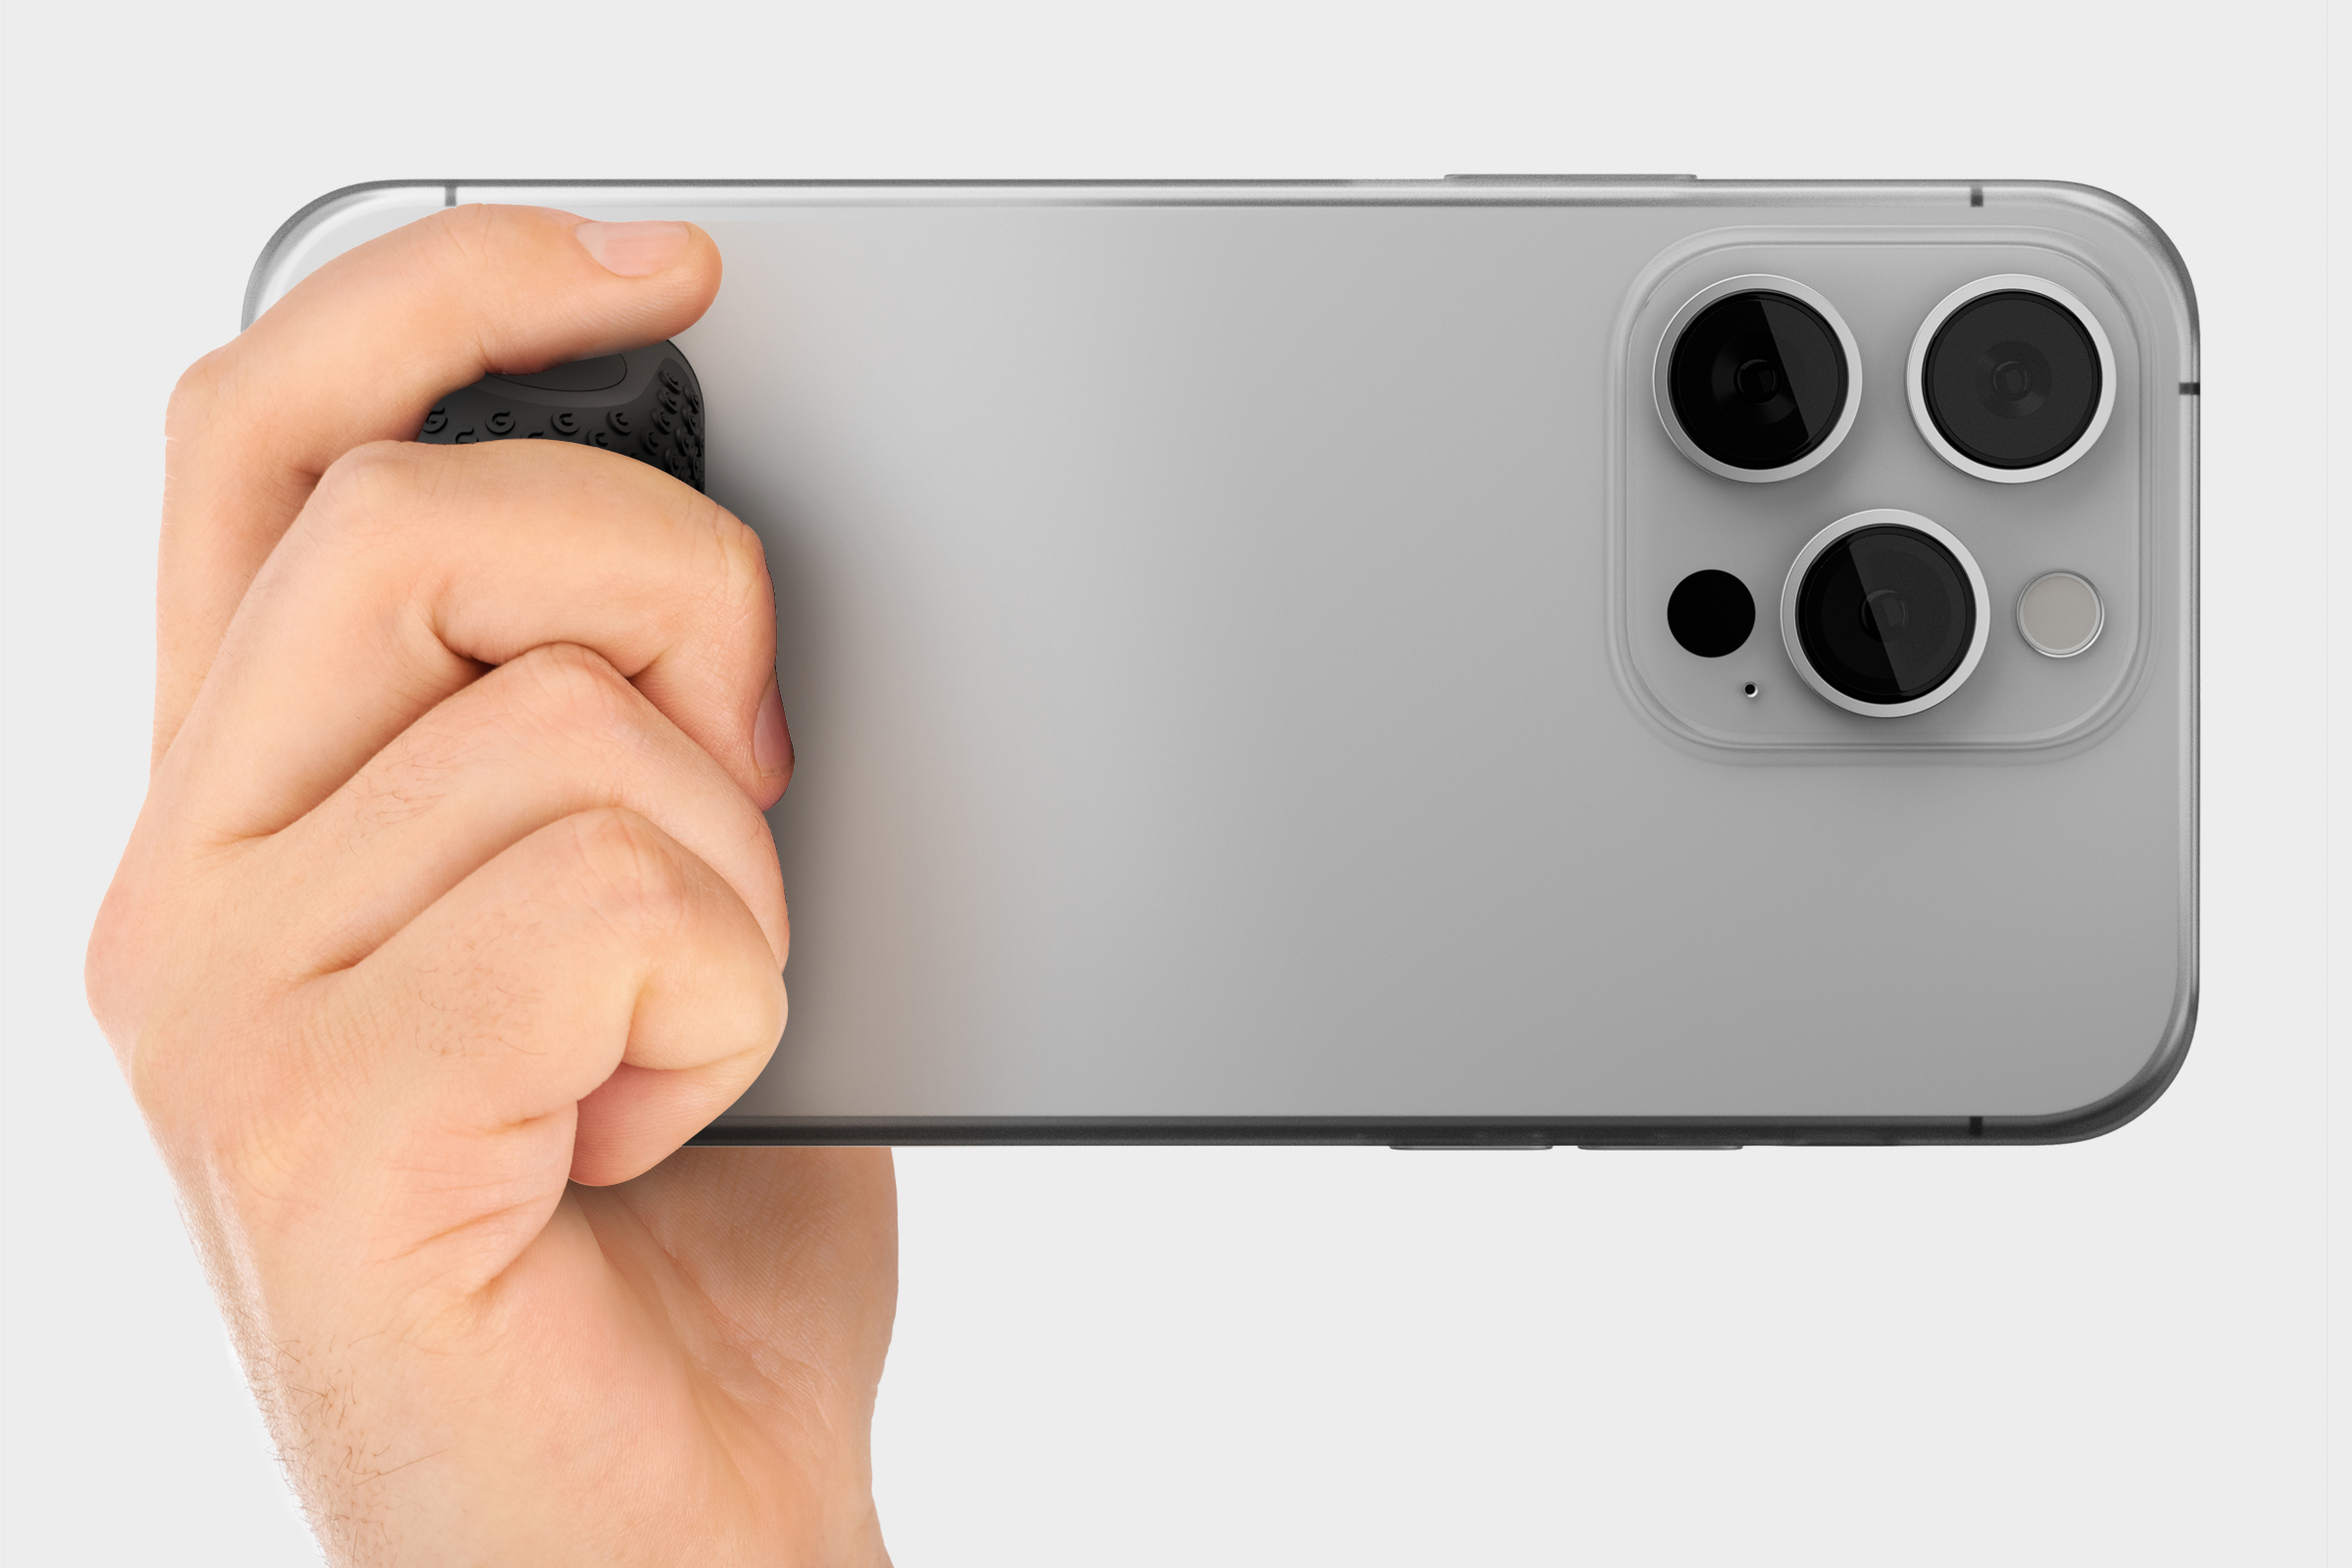
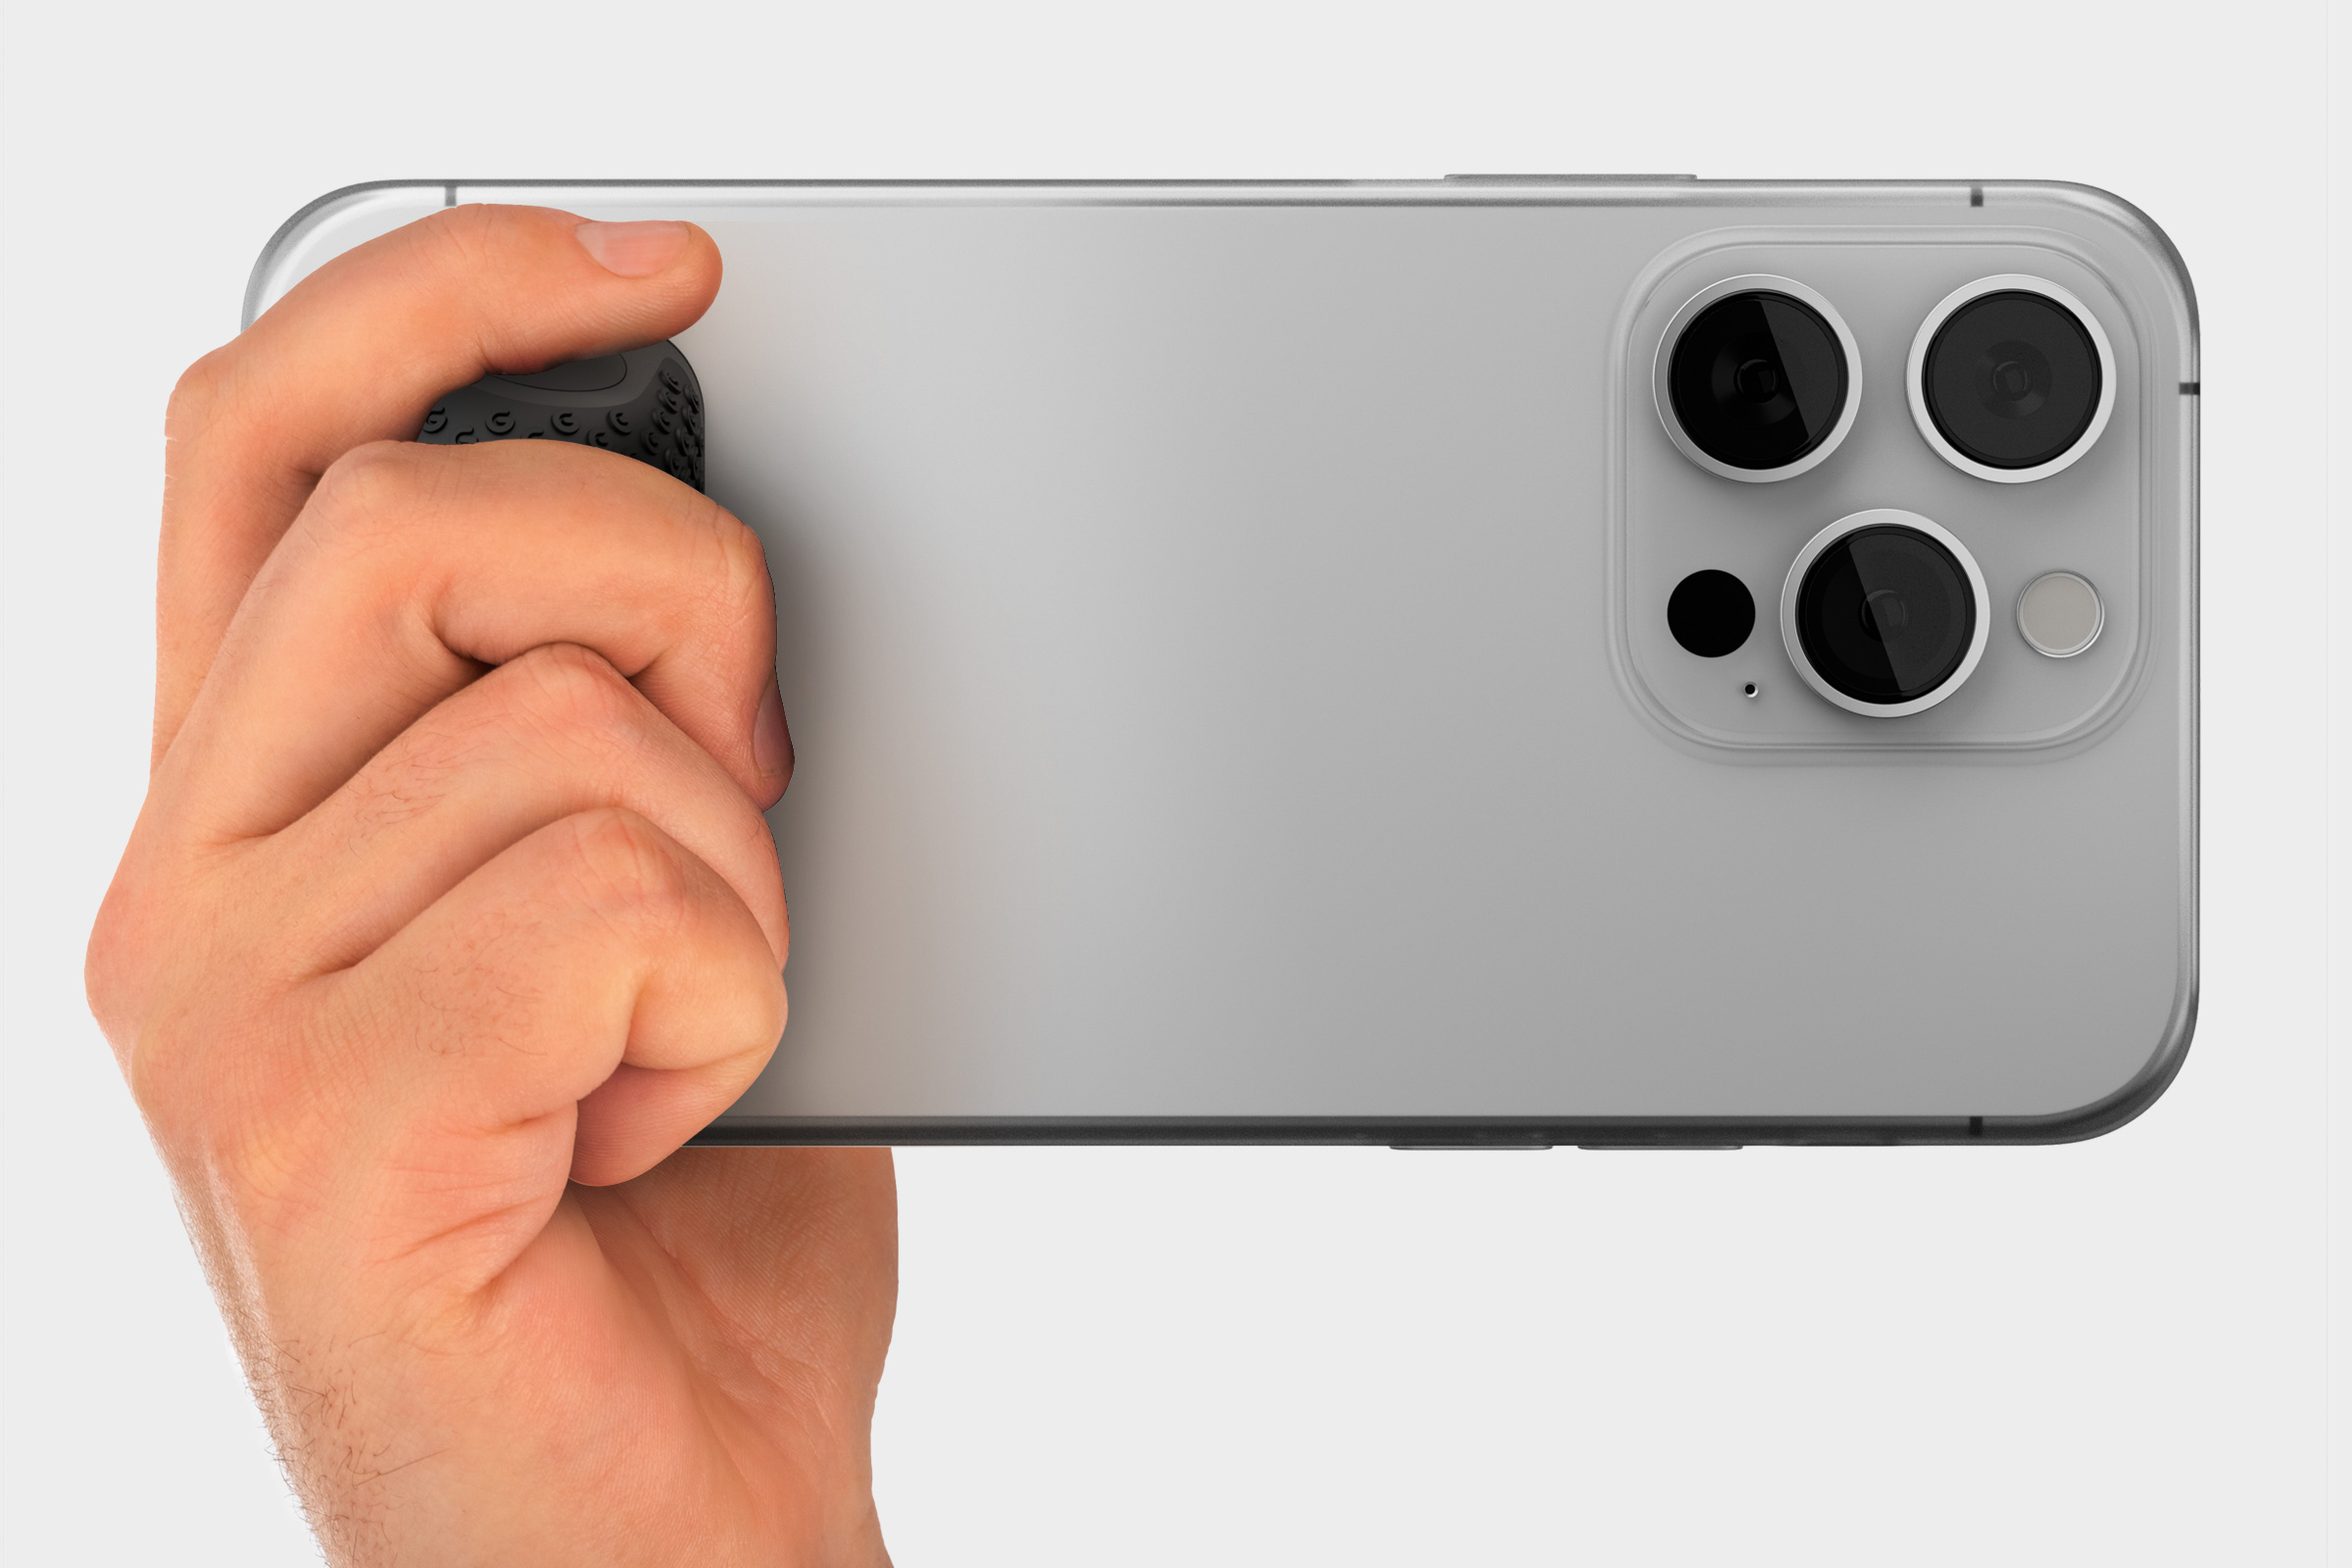
update

Changed region(s): [[0.0312, 0.125, 0.4062, 1.0]]

diff --git a/pages/index.js b/pages/index.js
@@ -13,13 +13,12 @@ export default function Page (props) {
       <main>
         <div style={{height: '180vh'}}>
           <div className="sticky top-24 flex flex-col justify-center px-4">
-            <Image src="/img/logo_big.svg" alt="G-Grip Logo" width={567} height={209}/>
-            <h2 className="font-normal text-center">by Greg Williams</h2>
+            <Image src="/img/logo_big_red.svg" alt="G-Grip Logo" width={567} height={209}/>
             <GGrip_Scroll/>
           </div>
         </div>
         <section className="mb-16 md:mb-32 anchor">
-          <Image src={"/img/g-grip-hand-on-iphone.jpg"} alt="ggrip_holding" width={2400} height={1600}/>
+          <Image src={"/img/g-grip-hand-on-iphone.jpg?v=2"} alt="ggrip_holding" width={2400} height={1600}/>
           <div className="grid grid-cols-2 gap-2 md:gap-4 mt-1 md:mt-2">
             <Image src={"/img/g-grip-on-iphone.jpg"} alt="ggrip_on_iphone" width={2400} height={1600}/>
             <Image src={"/img/g-grip-fitting-to-iphone.jpg"} alt="ggrip_attaching" width={2400} height={1600}/>

diff --git a/components/NavBar.js b/components/NavBar.js
@@ -7,7 +7,7 @@ export default function NavBar () {
     <div className="fixed w-full h-16 bg-white z-20">
       <div className="max-w-5xl mx-auto px-4 py-4 flex justify-between">
         <div className="flex flex-col justify-around">
-          <Image src="/img/logo_small.svg" alt="Logo" width={54} height={20}/>
+          <Image src="/img/logo_small.svg" alt="Logo" width={81} height={30}/>
         </div>
         <div className="hidden md:block">
           <Link href="/#overview" className="mx-8">

diff --git a/tailwind.config.js b/tailwind.config.js
@@ -7,6 +7,9 @@ module.exports = {
     extend: {
       fontSize: {
         'uxl': '14rem',
+      },
+      colors: {
+        'primary': '#e30613',
       }
     },
     fontFamily: {

diff --git a/styles/index.css b/styles/index.css
@@ -38,7 +38,7 @@
 
 
   button {
-    @apply rounded-full bg-blue-500 text-white;
+    @apply rounded-full text-white bg-primary;
   }
 }
 
